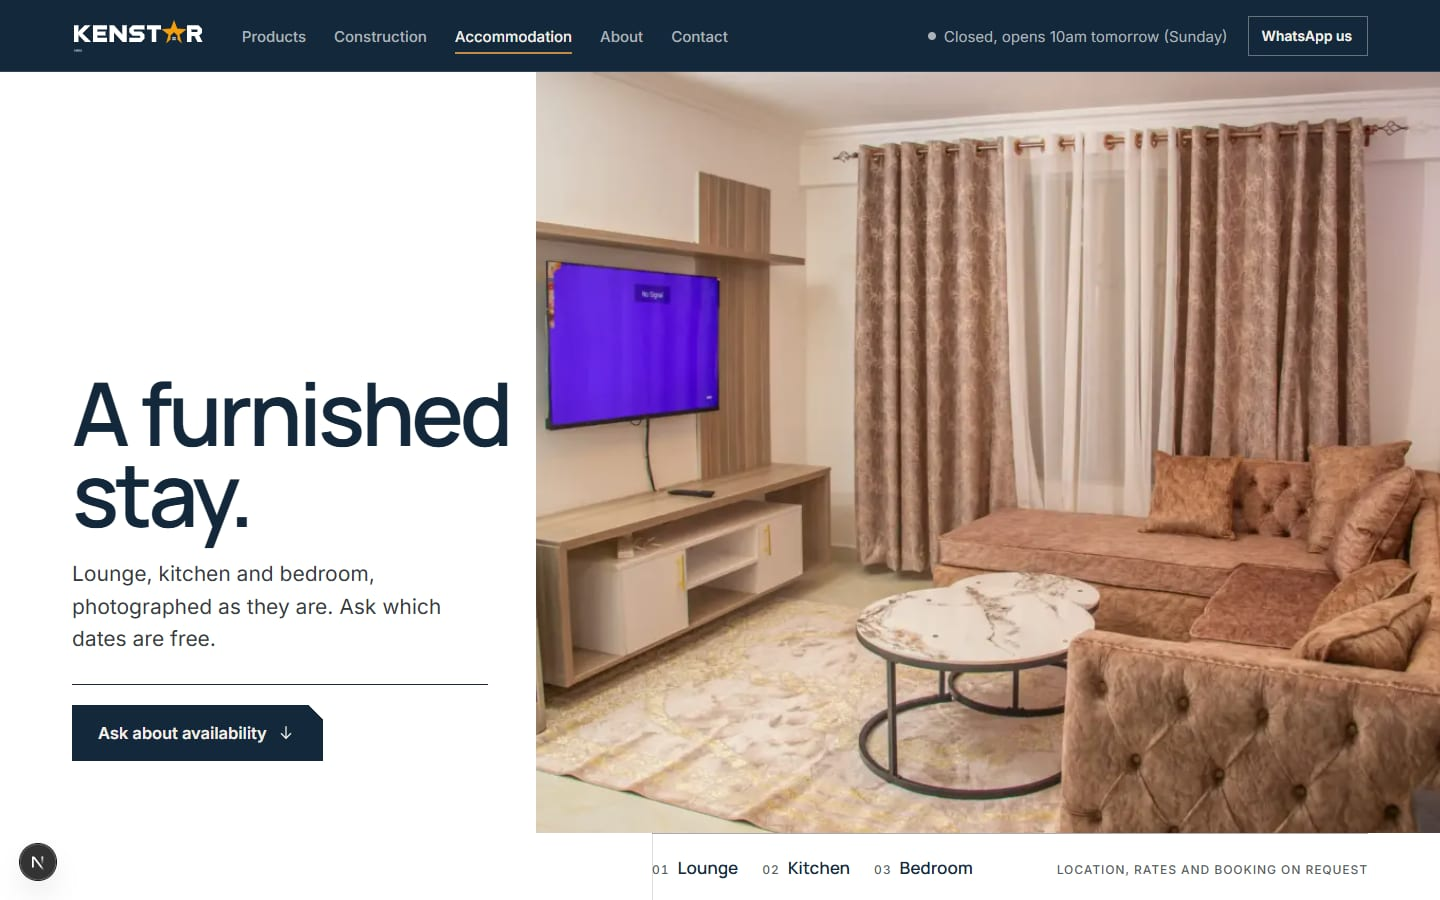
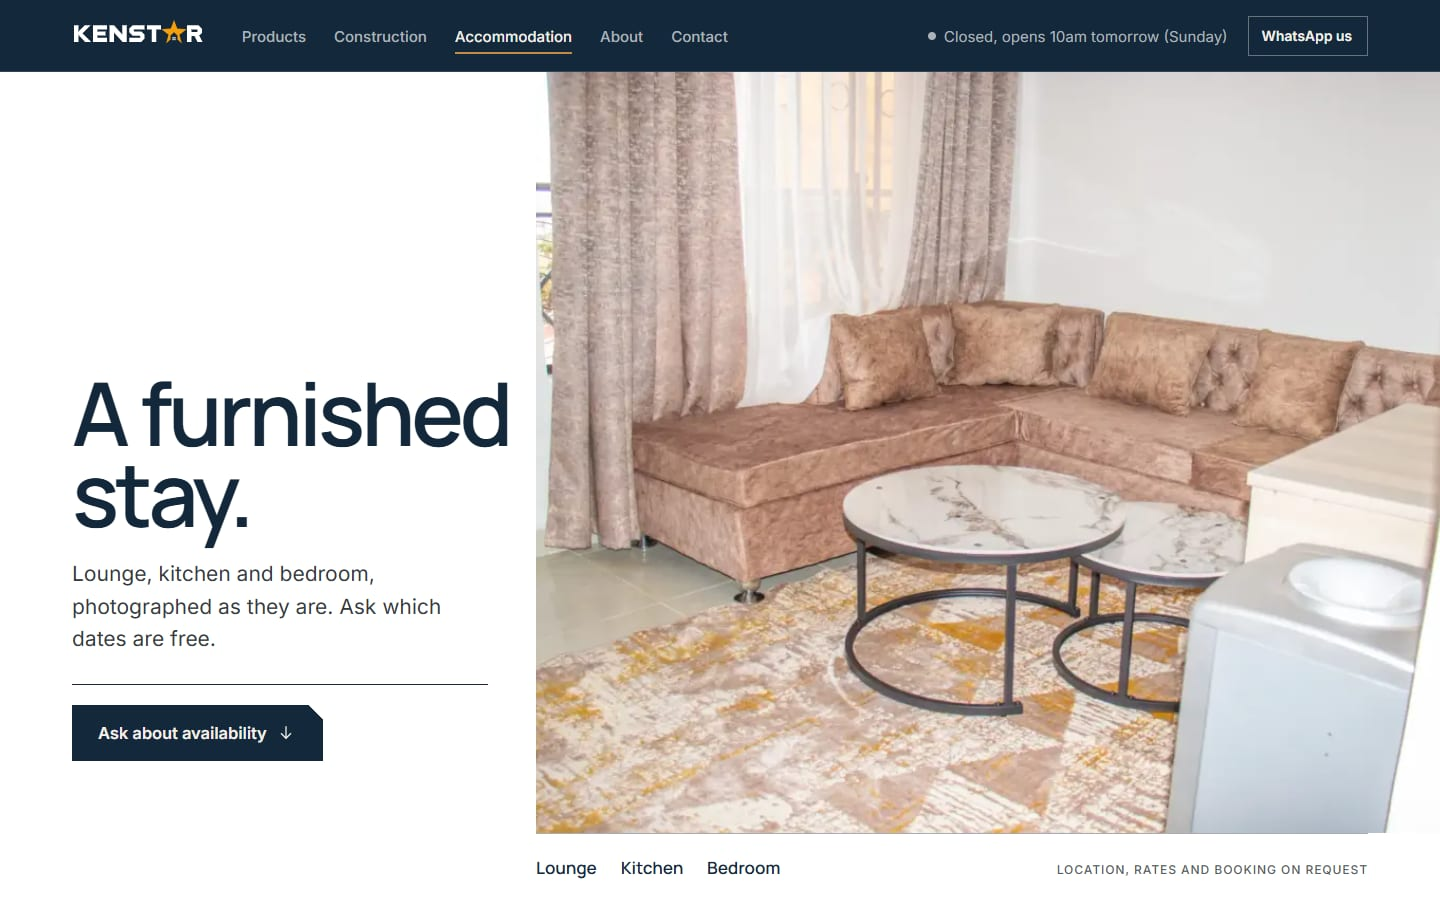
Apply the finish review: phone overflow, tablet hero, stay lead photo
- Products: the screen-reader-only counts in the range index escaped the
  scrolling strip and widened the page to 549px on phones; the strip now
  contains them. The lighting hall fills the title block's row from 1024px,
  and the index fades at its cut edge until all six ranges fit.
- Accommodation: open on the sofa corner instead of a TV reading
  "No Signal"; the credits row lines up with the photograph, without
  sequence numbers or the stray gutter hairline.
- Header and counter view: drop the EMBU locator, which cannot be read at
  those sizes.
- Record the two deliberate departures from the Products brief, and refresh
  the README's Accommodation and About screenshots.

diff --git a/app/products/products.css b/app/products/products.css
@@ -35,18 +35,21 @@
   .ps-top { grid-template-columns: minmax(0, 5fr) minmax(0, 7fr); min-height: clamp(400px, calc(100svh - var(--header-h) - var(--index-h) - 300px), 520px); }
   .ps-title { padding: 48px 40px 0 max(var(--margin), calc((100vw - 1600px) / 2 + var(--margin))); border-right: 1px solid var(--line); }
   .ps-meta { margin-top: auto; }
+  .ps-hero { margin-top: 0; aspect-ratio: auto; align-self: stretch; }
 }
 @media (min-width: 1280px) {
   .ps-meta { grid-template-columns: auto auto minmax(0, 1fr); }
   .ps-meta > div { border-bottom: 0; padding-right: 24px; }
   .ps-meta .ps-meta-wide { grid-column: auto; padding-left: 16px; box-shadow: inset 1px 0 0 var(--line); }
-  .ps-hero { margin-top: 0; aspect-ratio: auto; }
 }
 
 /* ---------- Index: the six ranges, then "Your schedule" over the dock. Sticky over the catalogue only. ---------- */
 .ps-index { position: sticky; top: var(--header-h); z-index: 30; background: var(--surface); box-shadow: inset 0 1px 0 var(--line), inset 0 -1px 0 var(--line); }
 .ps-index-in { display: grid; grid-template-columns: minmax(0, 1fr); }
 .ps-index-ranges {
+  /* Positioned, so the screen-reader-only counts inside it are clipped with the strip instead of
+     widening the page on phones. */
+  position: relative;
   display: flex; overflow-x: auto; scrollbar-width: none; overscroll-behavior-x: contain;
   /* On phones the strip scrolls sideways: its right edge fades so the cut-off cell reads as more. */
   mask-image: linear-gradient(90deg, #000 calc(100% - 32px), transparent);
@@ -70,8 +73,7 @@
 .ps-index .ps-index-mine { display: none; }
 @media (min-width: 1024px) {
   .ps-index-in { grid-template-columns: minmax(0, 1fr) 316px; column-gap: 32px; }
-  .ps-index-ranges { mask-image: none; }
-  .ps-index-ranges li:last-child a { margin-right: 0; }
+
   .ps-index .ps-index-mine {
     display: flex; justify-content: space-between; padding: 15px 16px 0 24px;
     background: #14283b; color: #f2efe8; box-shadow: none;
@@ -83,6 +85,9 @@
   .ps-index .ps-index-mine:focus-visible { outline-color: #14283b; outline-offset: 2px; }
 }
 @media (min-width: 1280px) {
+  /* All six cells fit from here, so the strip stops scrolling and loses its fade. */
+  .ps-index-ranges { mask-image: none; }
+  .ps-index-ranges li:last-child a { margin-right: 0; }
   .ps-index-in { grid-template-columns: minmax(0, 9fr) minmax(0, 3fr); column-gap: calc(var(--col-gap) * 2); }
   .ps-index-ranges li { flex: 1 1 0; min-width: 0; }
   .ps-index-ranges a { overflow: hidden; }

diff --git a/app/accommodation/accommodation.css b/app/accommodation/accommodation.css
@@ -36,7 +36,6 @@
 .st-credits ol { display: flex; flex-wrap: wrap; gap: 4px 24px; }
 .st-credits a { display: inline-flex; align-items: baseline; gap: 8px; min-height: 44px; padding-top: 10px; font: 600 1.0625rem/1.2 var(--font-manrope), "Segoe UI", system-ui, sans-serif; color: var(--text-strong); text-decoration: none; }
 .st-credits a:hover { text-decoration: underline; text-decoration-color: var(--accent); text-underline-offset: 0.3em; }
-.st-credit-n { font: 500 0.75rem/1 var(--font-inter), "Segoe UI", system-ui, sans-serif; letter-spacing: 0.08em; color: var(--text-soft); font-variant-numeric: tabular-nums; }
 .st-credit-note { font: 500 0.75rem/1.4 var(--font-inter), "Segoe UI", system-ui, sans-serif; letter-spacing: 0.08em; text-transform: uppercase; color: var(--text-soft); }
 
 @media (min-width: 1024px) {
@@ -47,14 +46,13 @@
   }
   /* Left page: the headline sits in open white, the gutter hairline drawn through the spread. */
   .st-left { grid-column: 1 / 6; grid-row: 1; align-self: end; padding: 64px 0 48px; position: relative; z-index: 1; }
-  .st-spread::before { content: ""; grid-column: 6; grid-row: 1 / 3; justify-self: start; width: 1px; background: var(--line); }
   /* Right page: the lounge bleeds off the top and the right edge and crosses the gutter. */
   .st-hero { grid-column: 5 / -1; grid-row: 1; aspect-ratio: auto; margin-right: 0; }
-  .st-credits { grid-column: 6 / -1; grid-row: 2; margin: 0 var(--margin) 0 0; padding-bottom: 8px; }
+  .st-credits { grid-column: 5 / -1; grid-row: 2; margin: 0 var(--margin) 0 0; padding-bottom: 8px; }
 }
 /* Between 1024 and 1279 the left page is narrow: the photograph steps back to the gutter. */
 @media (min-width: 1024px) and (max-width: 1279px) {
-  .st-hero { grid-column: 6 / -1; }
+  .st-hero, .st-credits { grid-column: 6 / -1; }
 }
 @media (min-width: 1280px) {
   .st-left { grid-column: 1 / 6; padding-bottom: 72px; }

diff --git a/app/_components/brand.tsx b/app/_components/brand.tsx
@@ -32,9 +32,11 @@ type WordmarkProps = {
   tone?: "navy" | "white";
   className?: string;
   title?: string;
+  locator?: boolean;
 };
 
-export function Wordmark({ tone = "navy", className, title = "Kenstar Limited, Embu" }: WordmarkProps) {
+// The EMBU locator reads only at large sizes; small lockups (header, counter view) set locator={false}.
+export function Wordmark({ tone = "navy", className, title = "Kenstar Limited, Embu", locator = true }: WordmarkProps) {
   // Brand marks are fixed values, not theme tokens: logo navy and star gold never change.
   const ink = tone === "navy" ? "#0b2d52" : "#ffffff";
   return (
@@ -46,7 +48,7 @@ export function Wordmark({ tone = "navy", className, title = "Kenstar Limited, E
       {Object.values(PANES).map((d) => (
         <path key={d} d={d} fill={ink} />
       ))}
-      {EMBU.map((d) => (
+      {locator && EMBU.map((d) => (
         <path key={d} d={d} fill={ink} />
       ))}
     </svg>

diff --git a/app/accommodation/page.tsx b/app/accommodation/page.tsx
@@ -33,14 +33,13 @@ export default function AccommodationPage() {
             </div>
           </div>
           <figure className="st-hero">
-            <Image src={STAY.loungeTv.src} alt={STAY.loungeTv.alt} fill preload sizes="(min-width: 1024px) 64vw, 100vw" />
+            <Image src={STAY.loungeCorner.src} alt={STAY.loungeCorner.alt} fill preload sizes="(min-width: 1024px) 64vw, 100vw" />
           </figure>
           <nav className="st-credits" aria-label="Rooms">
             <ol>
-              {ROOMS.map((r, i) => (
+              {ROOMS.map((r) => (
                 <li key={r.slug}>
                   <a href={`#${r.slug}`}>
-                    <span className="st-credit-n">{String(i + 1).padStart(2, "0")}</span>
                     {r.name}
                   </a>
                 </li>

diff --git a/app/_components/products/Schedule.tsx b/app/_components/products/Schedule.tsx
@@ -279,7 +279,7 @@ function CounterView({ s, date, dialogRef, onClose, close }: CounterProps) {
     <dialog ref={dialogRef} className="ps-counter env-limestone" aria-labelledby="ps-counter-title" onClick={closeOnBackdrop} onClose={onClose}>
       <div className="ps-counter-in">
         <div className="ps-counter-top">
-          <Wordmark className="ps-counter-logo" title="Kenstar Limited, Embu" />
+          <Wordmark className="ps-counter-logo" title="Kenstar Limited, Embu" locator={false} />
           <button type="button" className="k-icon-btn ps-counter-close" aria-label="Close" onClick={close} autoFocus>
             <Close size={20} />
           </button>

diff --git a/app/_components/SiteHeader.tsx b/app/_components/SiteHeader.tsx
@@ -39,7 +39,7 @@ export function SiteHeader() {
     <header className="kh env-midnight">
       <div className="kh-bar k-wrap">
         <Link href="/" className="kh-logo" aria-label="Kenstar Limited, home">
-          <Wordmark tone="white" title="Kenstar Limited, Embu" />
+          <Wordmark tone="white" title="Kenstar Limited, Embu" locator={false} />
         </Link>
 
         <nav aria-label="Main" className="kh-nav">

diff --git a/app/_content/stay.ts b/app/_content/stay.ts
@@ -34,7 +34,7 @@ export const ROOMS: Room[] = [
     slug: "lounge",
     name: "Lounge",
     photo: STAY.lounge,
-    more: [STAY.loungeCorner, STAY.hallway],
+    more: [STAY.hallway],
     notes: ["L-shaped upholstered sofa", "Round nested tables on a patterned rug", "Wall-mounted TV and a water dispenser"],
   },
   {

diff --git a/.impeccable/surfaces/app-products-page-tsx.md b/.impeccable/surfaces/app-products-page-tsx.md
@@ -42,3 +42,8 @@ Ticking a row stamps it into "Your schedule", with the count changing and the ro
 
 - Product names, models and specifications (none supplied).
 - Hardware and finishing photography.
+
+## Recorded departures (finish review, 2026-11-21)
+
+- **H1:** "Everything a space needs, in one showroom on Market Road." replaces "…on one floor in Embu.": the showroom photographs show a balcony and an upper floor, so "one floor" would be untrue.
+- **Home decor:** filed under Furniture & home (FU-09), not Lighting: its photographs show framed pictures and decorative glass for walls and shelves. The counts read Lighting 5 and Furniture 9.
